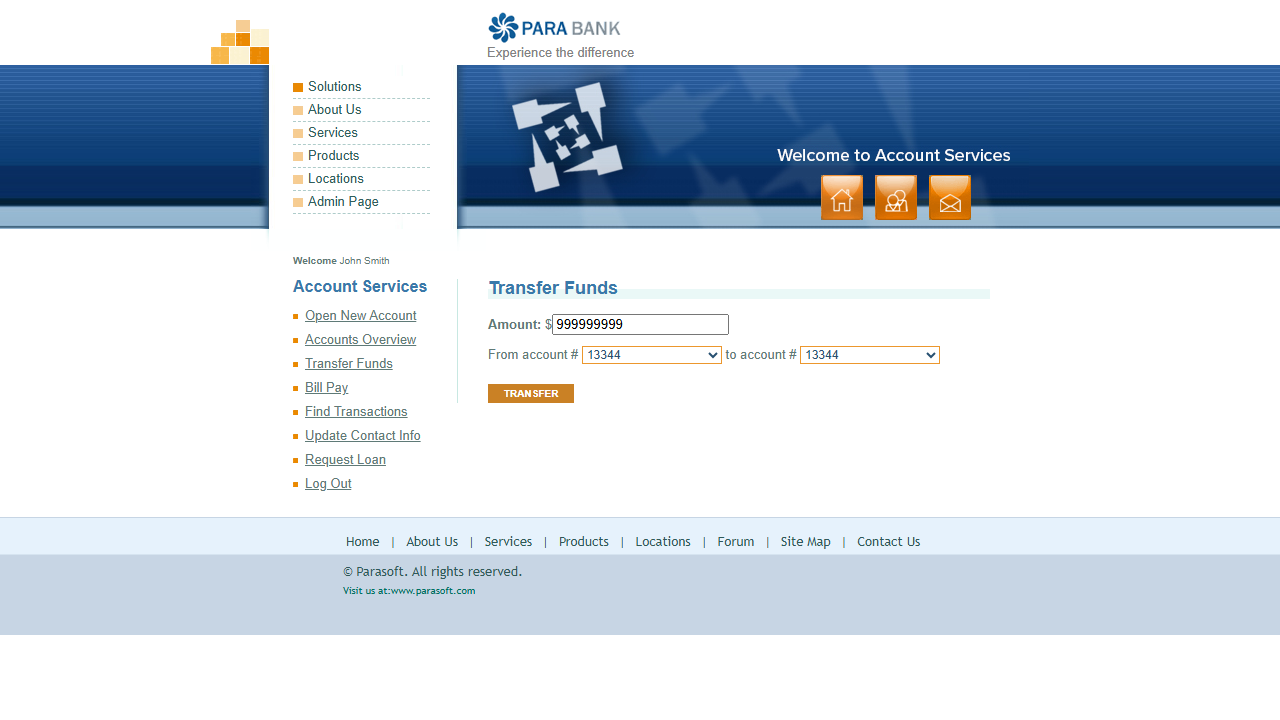
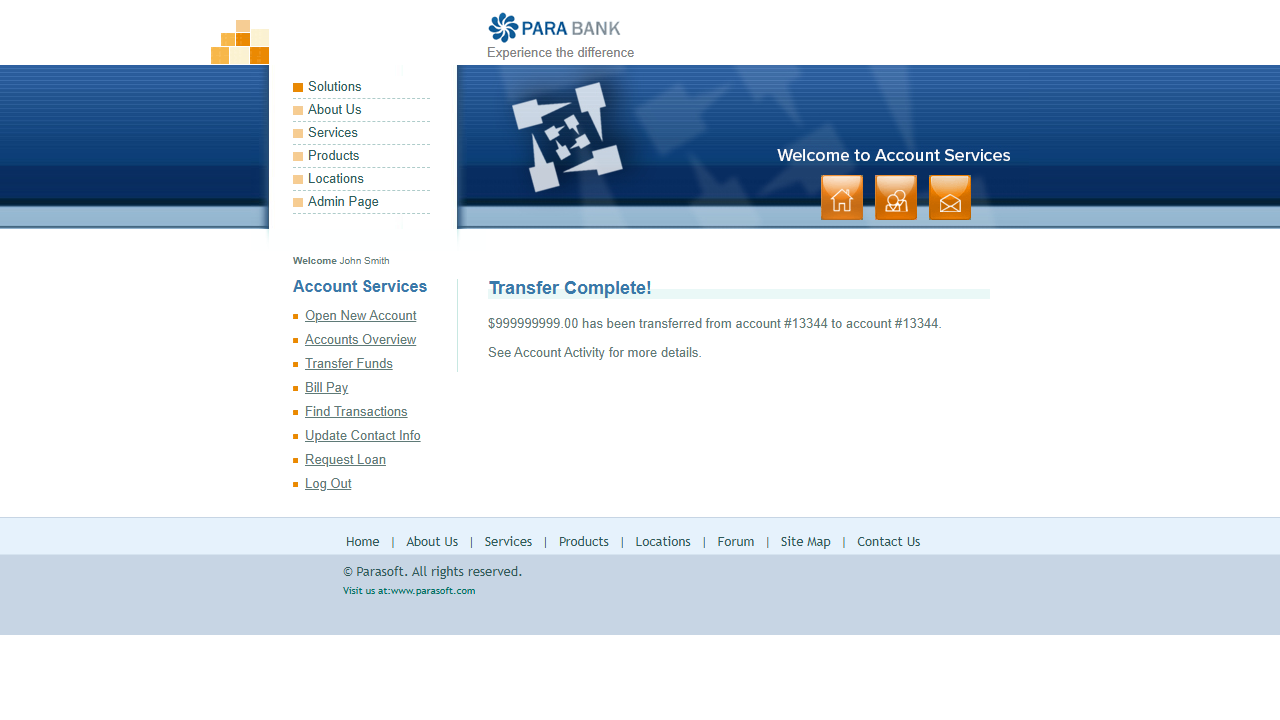
12

Changed region(s): [[0.375, 0.3667, 0.75, 0.5806]]

diff --git a/allure-results/05084aae-1113-4f47-9d8c-4728454b6878-attachment.md b/allure-results/05084aae-1113-4f47-9d8c-4728454b6878-attachment.md
@@ -1,0 +1,61 @@
+# Instructions
+
+- Following Playwright test failed.
+- Explain why, be concise, respect Playwright best practices.
+- Provide a snippet of code with the fix, if possible.
+
+# Test info
+
+- Name: tests\1 ui\transferFunds.spec.ts >> transfer funds
+- Location: tests\tests\1 ui\transferFunds.spec.ts:10:5
+
+# Error details
+
+```
+Error: locator.click: Target page, context or browser has been closed
+```
+
+# Test source
+
+```ts
+  1  | import { Page, expect } from '@playwright/test';
+  2  | 
+  3  | export class OpenNewAccountPage {
+  4  |   constructor(private page: Page) {}
+  5  | 
+  6  |   async openAccount(accountType: string) {
+  7  | 
+  8  |     await this.page.getByRole('link', {
+  9  |       name: 'Open New Account'
+> 10 |     }).click();
+     |        ^ Error: locator.click: Target page, context or browser has been closed
+  11 | 
+  12 |     await this.page.locator('#type')
+  13 |       .selectOption(accountType);
+  14 | 
+  15 |     // wait until accounts are loaded
+  16 |     await expect(this.page.locator('#fromAccountId'))
+  17 |       .toBeVisible();
+  18 | 
+  19 |     await this.page.waitForFunction(() => {
+  20 |       const select =
+  21 |         document.querySelector('#fromAccountId') as HTMLSelectElement;
+  22 |       return select && select.options.length > 0;
+  23 |     });
+  24 | 
+  25 |     await this.page.locator('#fromAccountId')
+  26 |       .selectOption({ index: 0 });
+  27 | 
+  28 |     await this.page.getByRole('button', {
+  29 |       name: 'Open New Account'
+  30 |     }).click();
+  31 |   }
+  32 | 
+  33 |   async getAccountNumber() {
+  34 |     const accountNo =
+  35 |       await this.page.locator('#newAccountId').textContent();
+  36 | 
+  37 |     return accountNo?.trim();
+  38 |   }
+  39 | }
+```

diff --git a/allure-results/5ab89061-87fd-445b-8e2d-fe949e8e8386-attachment.md b/allure-results/5ab89061-87fd-445b-8e2d-fe949e8e8386-attachment.md
@@ -1,0 +1,50 @@
+# Instructions
+
+- Following Playwright test failed.
+- Explain why, be concise, respect Playwright best practices.
+- Provide a snippet of code with the fix, if possible.
+
+# Test info
+
+- Name: tests\1 ui\1newregister.spec.ts >> register
+- Location: tests\tests\1 ui\1newregister.spec.ts:6:5
+
+# Error details
+
+```
+Test timeout of 30000ms exceeded.
+```
+
+```
+Error: locator.click: Test timeout of 30000ms exceeded.
+Call log:
+  - waiting for getByRole('link', { name: 'Register' })
+
+```
+
+# Test source
+
+```ts
+  1  | import{Page}from'@playwright/test';
+  2  | 
+  3  | export class RegisterPage{
+  4  | constructor(private page:Page){}
+  5  | async register(data:any){
+  6  | await this.page.goto('https://parabank.parasoft.com/parabank');
+> 7  | await this.page.getByRole('link',{name:'Register'}).click();
+     |                                                     ^ Error: locator.click: Test timeout of 30000ms exceeded.
+  8  | await this.page.locator('#customer\\.firstName').fill(data.firstName);
+  9  | await this.page.locator('#customer\\.lastName').fill(data.lastName);
+  10 | await this.page.locator('#customer\\.address\\.street').fill(data.street);
+  11 | await this.page.locator('#customer\\.address\\.city').fill(data.city);
+  12 | await this.page.locator('#customer\\.address\\.state').fill(data.state);
+  13 | await this.page.locator('#customer\\.address\\.zipCode').fill(data.zipCode);
+  14 | await this.page.locator('#customer\\.phoneNumber').fill(data.phone);
+  15 | await this.page.locator('#customer\\.ssn').fill(data.ssn);
+  16 | await this.page.locator('#customer\\.username').fill(data.username);
+  17 | await this.page.locator('#customer\\.password').fill(data.password);
+  18 | await this.page.locator('#repeatedPassword').fill(data.password);
+  19 | await this.page.getByRole('button',{name:'Register'}).click();
+  20 | }
+  21 | }
+```

diff --git a/allure-results/75d7adf4-c368-4530-bb94-c3b7d1b472d5-attachment.md b/allure-results/75d7adf4-c368-4530-bb94-c3b7d1b472d5-attachment.md
@@ -1,0 +1,50 @@
+# Instructions
+
+- Following Playwright test failed.
+- Explain why, be concise, respect Playwright best practices.
+- Provide a snippet of code with the fix, if possible.
+
+# Test info
+
+- Name: tests\1 ui\1newregister.spec.ts >> register with invalid data
+- Location: tests\tests\1 ui\1newregister.spec.ts:12:5
+
+# Error details
+
+```
+Test timeout of 30000ms exceeded.
+```
+
+```
+Error: locator.click: Test timeout of 30000ms exceeded.
+Call log:
+  - waiting for getByRole('link', { name: 'Register' })
+
+```
+
+# Test source
+
+```ts
+  1  | import{Page}from'@playwright/test';
+  2  | 
+  3  | export class RegisterPage{
+  4  | constructor(private page:Page){}
+  5  | async register(data:any){
+  6  | await this.page.goto('https://parabank.parasoft.com/parabank');
+> 7  | await this.page.getByRole('link',{name:'Register'}).click();
+     |                                                     ^ Error: locator.click: Test timeout of 30000ms exceeded.
+  8  | await this.page.locator('#customer\\.firstName').fill(data.firstName);
+  9  | await this.page.locator('#customer\\.lastName').fill(data.lastName);
+  10 | await this.page.locator('#customer\\.address\\.street').fill(data.street);
+  11 | await this.page.locator('#customer\\.address\\.city').fill(data.city);
+  12 | await this.page.locator('#customer\\.address\\.state').fill(data.state);
+  13 | await this.page.locator('#customer\\.address\\.zipCode').fill(data.zipCode);
+  14 | await this.page.locator('#customer\\.phoneNumber').fill(data.phone);
+  15 | await this.page.locator('#customer\\.ssn').fill(data.ssn);
+  16 | await this.page.locator('#customer\\.username').fill(data.username);
+  17 | await this.page.locator('#customer\\.password').fill(data.password);
+  18 | await this.page.locator('#repeatedPassword').fill(data.password);
+  19 | await this.page.getByRole('button',{name:'Register'}).click();
+  20 | }
+  21 | }
+```

diff --git a/allure-results/4117e29c-b253-4b90-aed3-a4d2125d4068-attachment.md b/allure-results/4117e29c-b253-4b90-aed3-a4d2125d4068-attachment.md
@@ -1,0 +1,20 @@
+# Instructions
+
+- Following Playwright test failed.
+- Explain why, be concise, respect Playwright best practices.
+- Provide a snippet of code with the fix, if possible.
+
+# Test info
+
+- Name: tests\1 ui\opennewaccount.spec.ts >> open savings account
+- Location: tests\tests\1 ui\opennewaccount.spec.ts:7:5
+
+# Error details
+
+```
+Error: page.waitForFunction: Target page, context or browser has been closed
+```
+
+```
+Error: browserContext.close: Target page, context or browser has been closed
+```